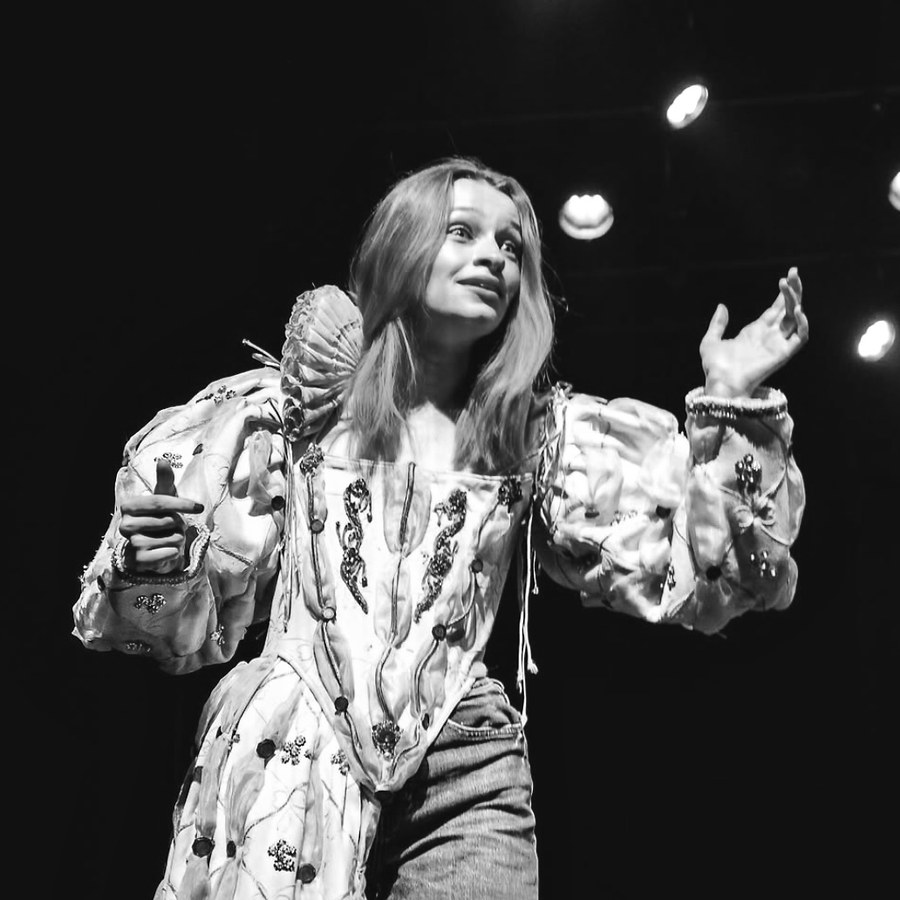
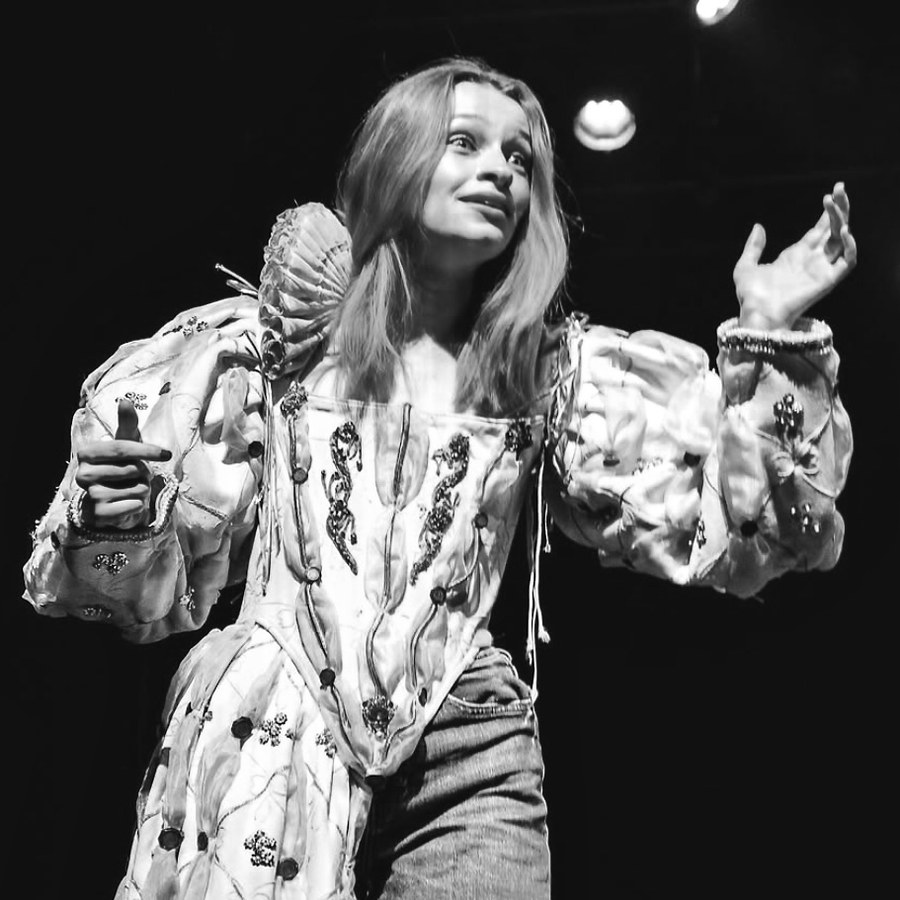
Met a jour le cadrage de la photo de Marie-Lou Seince

diff --git a/compagnie.html b/compagnie.html
@@ -90,7 +90,7 @@
           <p>Interprète dans <em>L'Amant</em> de Harold Pinter.</p>
         </div>
         <div class="team-card">
-          <div class="photo"><img src="assets/img/team/marie-lou-seince.jpg?v=7" alt="Marie-Lou Seince"></div>
+          <div class="photo"><img src="assets/img/team/marie-lou-seince.jpg?v=8" alt="Marie-Lou Seince"></div>
           <h3>Marie-Lou Seince</h3>
           <span class="role">Comédienne</span>
           <p>Interprète dans <em>L'Amant</em> de Harold Pinter.</p>
